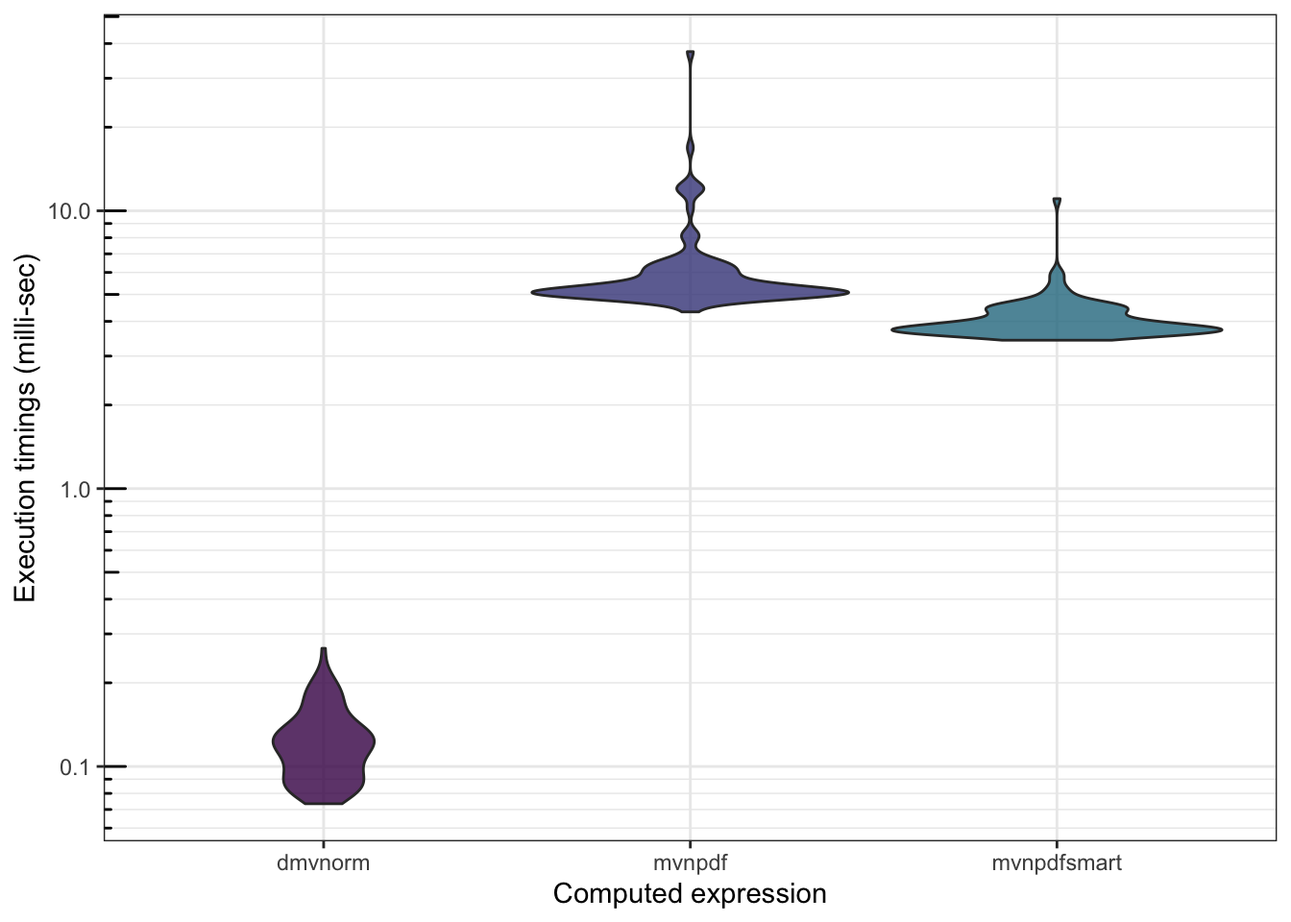
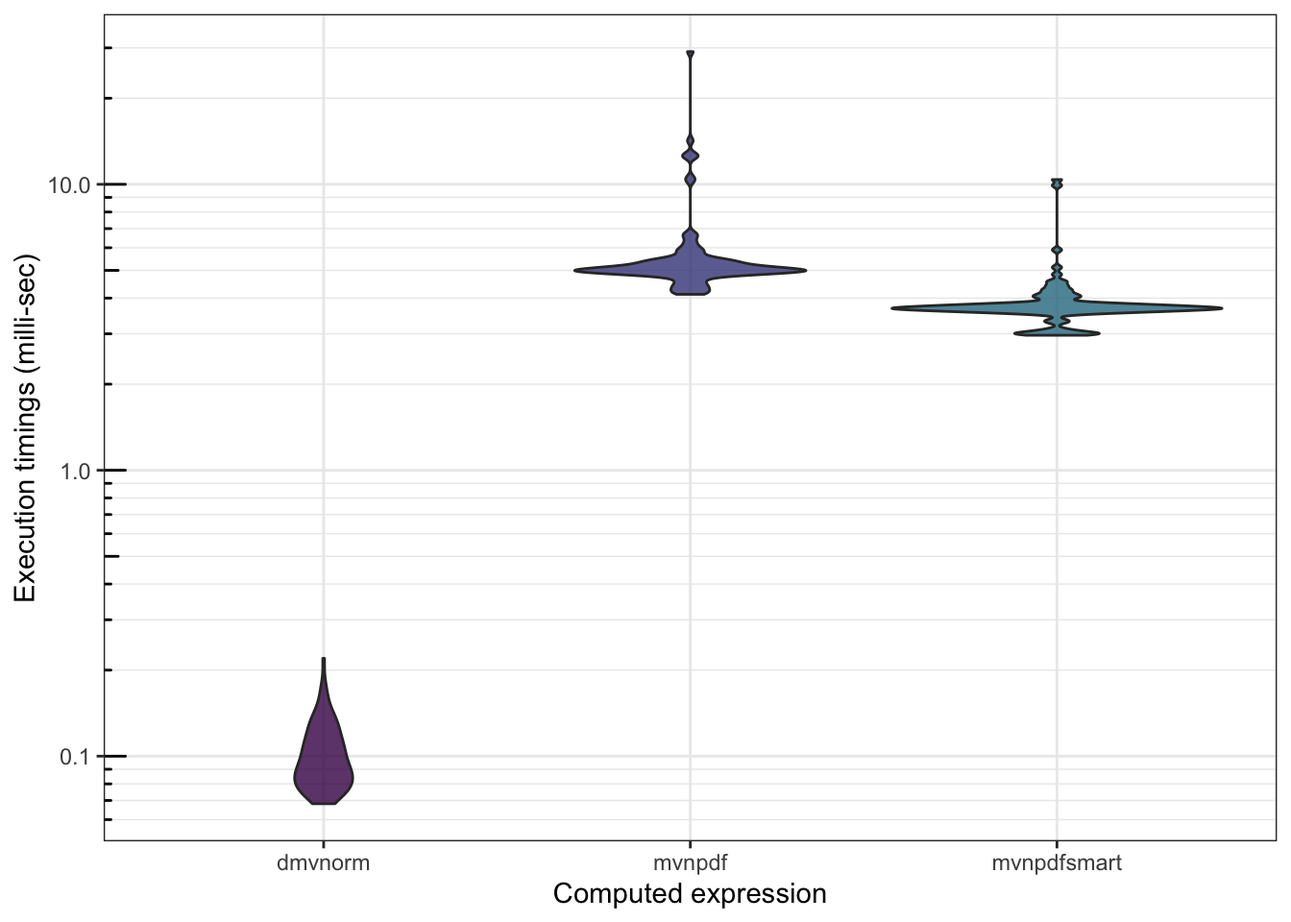
typos

diff --git a/_book/profiling-code.html b/_book/profiling-code.html
@@ -91,13 +91,13 @@
 <span class="va">mb</span></code></pre></div>
 <pre><code>## Unit: milliseconds
 ##                                                            expr      min
-##       mvnpdf(x = matrix(1.96, nrow = 2, ncol = n), Log = FALSE) 4.852221
-##  mvnpdfsmart(x = matrix(1.96, nrow = 2, ncol = n), Log = FALSE) 3.558716
+##       mvnpdf(x = matrix(1.96, nrow = 2, ncol = n), Log = FALSE) 4.336263
+##  mvnpdfsmart(x = matrix(1.96, nrow = 2, ncol = n), Log = FALSE) 3.078886
 ##        lq     mean   median       uq      max neval
-##  5.201794 6.497540 5.697207 6.770580 16.33151   100
-##  3.745223 4.121255 3.886017 4.205934 10.25863   100</code></pre>
+##  5.000927 5.982970 5.234612 6.068598 16.52776   100
+##  3.676973 3.993733 3.809541 3.929553 11.45516   100</code></pre>
 <div class="inline-figure"><img src="AdvancedRcourse_dev_perf_files/figure-html/unnamed-chunk-20-1.png" width="672"></div>
-<p>We can also check whether <code>mvnpdfsmart</code> becomes competitive with <code>dmvnorm()</code>:</p>
+<p>We can also check whether <code>mvnpdfsmart</code> becomes competitive with <code><a href="https://rdrr.io/pkg/mvtnorm/man/Mvnorm.html">dmvnorm()</a></code>:</p>
 <div class="sourceCode" id="cb21"><pre class="downlit sourceCode r">
 <code class="sourceCode R"><span class="va">n</span> <span class="op">&lt;-</span> <span class="fl">1000</span>
 <span class="va">mb</span> <span class="op">&lt;-</span> <span class="fu"><a href="https://rdrr.io/pkg/microbenchmark/man/microbenchmark.html">microbenchmark</a></span><span class="op">(</span><span class="fu">mvtnorm</span><span class="fu">::</span><span class="fu"><a href="https://rdrr.io/pkg/mvtnorm/man/Mvnorm.html">dmvnorm</a></span><span class="op">(</span><span class="fu"><a href="https://rdrr.io/r/base/matrix.html">matrix</a></span><span class="op">(</span><span class="fl">1.96</span>, nrow <span class="op">=</span> <span class="va">n</span>, ncol <span class="op">=</span> <span class="fl">2</span><span class="op">)</span><span class="op">)</span>,
@@ -107,13 +107,13 @@
 <span class="va">mb</span></code></pre></div>
 <pre><code>## Unit: microseconds
 ##                                                            expr      min
-##              mvtnorm::dmvnorm(matrix(1.96, nrow = n, ncol = 2))   73.418
-##       mvnpdf(x = matrix(1.96, nrow = 2, ncol = n), Log = FALSE) 4326.748
-##  mvnpdfsmart(x = matrix(1.96, nrow = 2, ncol = n), Log = FALSE) 3421.482
-##        lq      mean   median       uq       max neval
-##    91.687  122.6135  119.635  139.938   266.169   100
-##  5029.181 6284.8322 5250.682 6089.752 37401.962   100
-##  3681.171 4113.1115 3835.534 4415.663 11055.434   100</code></pre>
+##              mvtnorm::dmvnorm(matrix(1.96, nrow = n, ncol = 2))   68.180
+##       mvnpdf(x = matrix(1.96, nrow = 2, ncol = n), Log = FALSE) 4123.153
+##  mvnpdfsmart(x = matrix(1.96, nrow = 2, ncol = n), Log = FALSE) 2965.095
+##         lq      mean    median        uq       max neval
+##    81.7875  101.6574   93.5195  116.5315   219.855   100
+##  4911.3235 5754.7674 5043.9450 5392.3550 29106.463   100
+##  3598.9005 3855.2198 3695.3890 3813.0660 10390.089   100</code></pre>
 <div class="inline-figure"><img src="AdvancedRcourse_dev_perf_files/figure-html/unnamed-chunk-22-1.png" width="672"></div>
 <p>There is still work to be done…</p>
 </div>
@@ -138,19 +138,20 @@
 <span class="va">mb</span></code></pre></div>
 <pre><code>## Unit: microseconds
 ##                                                            expr      min
-##              mvtnorm::dmvnorm(matrix(1.96, nrow = n, ncol = 2))   70.349
-##       mvnpdf(x = matrix(1.96, nrow = 2, ncol = n), Log = FALSE) 4792.622
-##  mvnpdfsmart(x = matrix(1.96, nrow = 2, ncol = n), Log = FALSE) 3289.135
-##  mvnpdfoptim(x = matrix(1.96, nrow = 2, ncol = n), Log = FALSE) 2685.038
-##        lq      mean   median        uq       max neval
-##    89.696  118.6309  109.472  133.5555   254.979   100
-##  4985.229 5460.4547 5079.698 5417.0380 12831.525   100
-##  3642.360 4251.7034 3735.575 4064.6950 10846.229   100
-##  2827.854 3230.0759 2889.149 3100.4740 13078.359   100</code></pre>
+##              mvtnorm::dmvnorm(matrix(1.96, nrow = n, ncol = 2))   72.532
+##       mvnpdf(x = matrix(1.96, nrow = 2, ncol = n), Log = FALSE) 4061.878
+##  mvnpdfsmart(x = matrix(1.96, nrow = 2, ncol = n), Log = FALSE) 3043.096
+##  mvnpdfoptim(x = matrix(1.96, nrow = 2, ncol = n), Log = FALSE) 2278.607
+##         lq      mean    median       uq       max neval
+##    82.3265  101.8257   98.2125  114.879   230.305   100
+##  4811.8950 5371.1318 4955.8120 5120.218 14294.233   100
+##  3615.7080 3930.5255 3679.0670 3781.788  9506.746   100
+##  2737.0250 2930.6778 2835.5665 2971.662 10070.794   100</code></pre>
 <div class="inline-figure"><img src="AdvancedRcourse_dev_perf_files/figure-html/unnamed-chunk-25-1.png" width="672"></div>
-<p>Finally, we can profile tthe <code>dmvnorm()</code> function:</p>
+<p>Finally, we can profile tthe <code><a href="https://rdrr.io/pkg/mvtnorm/man/Mvnorm.html">dmvnorm()</a></code> function:</p>
 <div class="sourceCode" id="cb26"><pre class="downlit sourceCode r">
 <code class="sourceCode R"><span class="va">n</span> <span class="op">&lt;-</span> <span class="fl">10e5</span>
+<span class="kw"><a href="https://rdrr.io/r/base/library.html">library</a></span><span class="op">(</span><span class="va"><a href="http://mvtnorm.R-forge.R-project.org">mvtnorm</a></span><span class="op">)</span>
 <span class="fu">profvis</span><span class="fu">::</span><span class="fu"><a href="https://rdrr.io/pkg/profvis/man/profvis.html">profvis</a></span><span class="op">(</span><span class="fu">mvtnorm</span><span class="fu">::</span><span class="fu"><a href="https://rdrr.io/pkg/mvtnorm/man/Mvnorm.html">dmvnorm</a></span><span class="op">(</span><span class="fu"><a href="https://rdrr.io/r/base/matrix.html">matrix</a></span><span class="op">(</span><span class="fl">1.96</span>, nrow <span class="op">=</span> <span class="va">n</span>, ncol <span class="op">=</span> <span class="fl">2</span><span class="op">)</span><span class="op">)</span><span class="op">)</span></code></pre></div>
 
 </div>
@@ -180,7 +181,7 @@
 <footer class="bg-primary text-light mt-5"><div class="container"><div class="row">
 
   <div class="col-12 col-md-6 mt-3">
-    <p>"<strong>Advanced <svg aria-hidden="true" role="img" viewbox="0 0 581 512" style="height:1em;width:1.13em;vertical-align:-0.125em;margin-left:auto;margin-right:auto;font-size:inherit;fill:currentColor;overflow:visible;position:relative;"><path d="M581 226.6C581 119.1 450.9 32 290.5 32S0 119.1 0 226.6C0 322.4 103.3 402 239.4 418.1V480h99.1v-61.5c24.3-2.7 47.6-7.4 69.4-13.9L448 480h112l-67.4-113.7c54.5-35.4 88.4-84.9 88.4-139.7zm-466.8 14.5c0-73.5 98.9-133 220.8-133s211.9 40.7 211.9 133c0 50.1-26.5 85-70.3 106.4-2.4-1.6-4.7-2.9-6.4-3.7-10.2-5.2-27.8-10.5-27.8-10.5s86.6-6.4 86.6-92.7-90.6-87.9-90.6-87.9h-199V361c-74.1-21.5-125.2-67.1-125.2-119.9zm225.1 38.3v-55.6c57.8 0 87.8-6.8 87.8 27.3 0 36.5-38.2 28.3-87.8 28.3zm-.9 72.5H365c10.8 0 18.9 11.7 24 19.2-16.1 1.9-33 2.8-50.6 2.9v-22.1z"></path></svg> course</strong>: <em>Tools for software development and performance</em>" was written by <a href="https://robin.genuer.fr/">Robin Genuer</a> &amp; <a href="https://borishejblum.science/">Boris Hejblum</a>. It was last built on 2022-06-08.</p>
+    <p>"<strong>Advanced <svg aria-hidden="true" role="img" viewbox="0 0 581 512" style="height:1em;width:1.13em;vertical-align:-0.125em;margin-left:auto;margin-right:auto;font-size:inherit;fill:currentColor;overflow:visible;position:relative;"><path d="M581 226.6C581 119.1 450.9 32 290.5 32S0 119.1 0 226.6C0 322.4 103.3 402 239.4 418.1V480h99.1v-61.5c24.3-2.7 47.6-7.4 69.4-13.9L448 480h112l-67.4-113.7c54.5-35.4 88.4-84.9 88.4-139.7zm-466.8 14.5c0-73.5 98.9-133 220.8-133s211.9 40.7 211.9 133c0 50.1-26.5 85-70.3 106.4-2.4-1.6-4.7-2.9-6.4-3.7-10.2-5.2-27.8-10.5-27.8-10.5s86.6-6.4 86.6-92.7-90.6-87.9-90.6-87.9h-199V361c-74.1-21.5-125.2-67.1-125.2-119.9zm225.1 38.3v-55.6c57.8 0 87.8-6.8 87.8 27.3 0 36.5-38.2 28.3-87.8 28.3zm-.9 72.5H365c10.8 0 18.9 11.7 24 19.2-16.1 1.9-33 2.8-50.6 2.9v-22.1z"></path></svg> course</strong>: <em>Tools for software development and performance</em>" was written by <a href="https://robin.genuer.fr/">Robin Genuer</a> &amp; <a href="https://borishejblum.science/">Boris Hejblum</a>. It was last built on 2022-06-09.</p>
   </div>
 
   <div class="col-12 col-md-6 mt-3">

diff --git a/_book/measuring-and-comparing-execution-times.html b/_book/measuring-and-comparing-execution-times.html
@@ -74,14 +74,14 @@
 <code class="sourceCode R"><span class="va">obs</span> <span class="op">&lt;-</span> <span class="fu"><a href="https://rdrr.io/r/base/matrix.html">matrix</a></span><span class="op">(</span><span class="fu"><a href="https://rdrr.io/r/base/rep.html">rep</a></span><span class="op">(</span><span class="fl">1.96</span>, <span class="fl">2</span><span class="op">)</span>, nrow<span class="op">=</span><span class="fl">2</span>, ncol<span class="op">=</span><span class="fl">1</span><span class="op">)</span>
 <span class="fu"><a href="https://rdrr.io/r/base/system.time.html">system.time</a></span><span class="op">(</span><span class="fu">mvnpdf</span><span class="op">(</span>x<span class="op">=</span><span class="va">obs</span>, Log<span class="op">=</span><span class="cn">FALSE</span><span class="op">)</span><span class="op">)</span></code></pre></div>
 <pre><code>## utilisateur     système      écoulé 
-##       0.002       0.001       0.003</code></pre>
+##       0.001       0.001       0.003</code></pre>
 <p>The problem that appears in this example is that the execution is so fast that <code><a href="https://rdrr.io/r/base/system.time.html">system.time()</a></code> displays <code>0</code> (or a very close value) that will be impossible to marginally compare to a hopefully faster implementation. Also, we see that there is some variability when we run the command several times.</p>
 <p>Thus if we want to compare our code with the <code><a href="https://rdrr.io/pkg/mvtnorm/man/Mvnorm.html">mvtnorm::dmvnorm()</a></code> function, we can’t use <code><a href="https://rdrr.io/r/base/system.time.html">system.time()</a></code>:</p>
 <div class="sourceCode" id="cb11"><pre class="downlit sourceCode r">
 <code class="sourceCode R"><span class="va">obs</span> <span class="op">&lt;-</span> <span class="fu"><a href="https://rdrr.io/r/base/rep.html">rep</a></span><span class="op">(</span><span class="fl">1.96</span>, <span class="fl">2</span><span class="op">)</span>
 <span class="fu"><a href="https://rdrr.io/r/base/system.time.html">system.time</a></span><span class="op">(</span><span class="fu">mvtnorm</span><span class="fu">::</span><span class="fu"><a href="https://rdrr.io/pkg/mvtnorm/man/Mvnorm.html">dmvnorm</a></span><span class="op">(</span><span class="va">obs</span><span class="op">)</span><span class="op">)</span></code></pre></div>
 <pre><code>## utilisateur     système      écoulé 
-##       0.005       0.003       0.011</code></pre>
+##       0.004       0.003       0.011</code></pre>
 <p>We could say that we have to increase the complexity of our calculation, but there is a better way: use the <code>microbenchmark</code> package !</p>
 </div>
 <div id="compare-execution-timings-with-microbenchmark." class="section level2" number="3.2">
@@ -97,14 +97,14 @@
                      times <span class="op">=</span> <span class="fl">1000</span><span class="op">)</span>
 <span class="va">mb</span></code></pre></div>
 <pre><code>## Unit: microseconds
-##                                           expr    min      lq     mean  median
-##                 mvtnorm::dmvnorm(rep(1.96, 2)) 37.572 50.2770 61.73371 55.3395
-##  mvnpdf(x = matrix(rep(1.96, 2)), Log = FALSE) 35.493 46.2905 54.95766 51.3455
+##                                           expr    min     lq     mean median
+##                 mvtnorm::dmvnorm(rep(1.96, 2)) 38.066 43.595 50.37445 49.119
+##  mvnpdf(x = matrix(rep(1.96, 2)), Log = FALSE) 35.025 40.444 49.04525 45.304
 ##       uq      max neval
-##  66.1915 2590.361  1000
-##  59.1720  197.410  1000</code></pre>
+##  53.6075  135.831  1000
+##  49.4970 2632.936  1000</code></pre>
 <div class="inline-figure"><img src="AdvancedRcourse_dev_perf_files/figure-html/unnamed-chunk-13-1.png" width="672"></div>
-<p>Botth <code>mvnpdf()</code> and <code>dmnvorm()</code> functions being able to take a matrix as input, we can also compare their timings in this setting:</p>
+<p>Both <code>mvnpdf()</code> and <code>dmnvorm()</code> functions being able to take a matrix as input, we can also compare their timings in this setting:</p>
 <div class="sourceCode" id="cb15"><pre class="downlit sourceCode r">
 <code class="sourceCode R"><span class="va">n</span> <span class="op">&lt;-</span> <span class="fl">100</span>
 <span class="va">mb</span> <span class="op">&lt;-</span> <span class="fu"><a href="https://rdrr.io/pkg/microbenchmark/man/microbenchmark.html">microbenchmark</a></span><span class="op">(</span><span class="fu">mvtnorm</span><span class="fu">::</span><span class="fu"><a href="https://rdrr.io/pkg/mvtnorm/man/Mvnorm.html">dmvnorm</a></span><span class="op">(</span><span class="fu"><a href="https://rdrr.io/r/base/matrix.html">matrix</a></span><span class="op">(</span><span class="fl">1.96</span>, nrow <span class="op">=</span> <span class="va">n</span>, ncol <span class="op">=</span> <span class="fl">2</span><span class="op">)</span><span class="op">)</span>,
@@ -113,12 +113,12 @@
                      times<span class="op">=</span><span class="fl">100</span><span class="op">)</span>
 <span class="va">mb</span></code></pre></div>
 <pre><code>## Unit: microseconds
-##                                                       expr     min      lq
-##         mvtnorm::dmvnorm(matrix(1.96, nrow = n, ncol = 2))  51.612  62.200
-##  mvnpdf(x = matrix(1.96, nrow = 2, ncol = n), Log = FALSE) 521.395 587.507
-##       mean  median       uq     max neval
-##   74.61388  70.893  84.9525 116.128   100
-##  613.05475 607.751 636.8105 725.737   100</code></pre>
+##                                                       expr     min       lq
+##         mvtnorm::dmvnorm(matrix(1.96, nrow = n, ncol = 2))  49.591  59.9405
+##  mvnpdf(x = matrix(1.96, nrow = 2, ncol = n), Log = FALSE) 485.371 546.5430
+##       mean  median      uq     max neval
+##   68.67111  64.826  72.471 174.057   100
+##  572.04338 572.378 591.084 670.790   100</code></pre>
 <div class="inline-figure"><img src="AdvancedRcourse_dev_perf_files/figure-html/unnamed-chunk-15-1.png" width="672"></div>
 <p>Something happened… And we will find out what exactly is causing this issue in what comes next.</p>
 
@@ -149,7 +149,7 @@
 <footer class="bg-primary text-light mt-5"><div class="container"><div class="row">
 
   <div class="col-12 col-md-6 mt-3">
-    <p>"<strong>Advanced <svg aria-hidden="true" role="img" viewbox="0 0 581 512" style="height:1em;width:1.13em;vertical-align:-0.125em;margin-left:auto;margin-right:auto;font-size:inherit;fill:currentColor;overflow:visible;position:relative;"><path d="M581 226.6C581 119.1 450.9 32 290.5 32S0 119.1 0 226.6C0 322.4 103.3 402 239.4 418.1V480h99.1v-61.5c24.3-2.7 47.6-7.4 69.4-13.9L448 480h112l-67.4-113.7c54.5-35.4 88.4-84.9 88.4-139.7zm-466.8 14.5c0-73.5 98.9-133 220.8-133s211.9 40.7 211.9 133c0 50.1-26.5 85-70.3 106.4-2.4-1.6-4.7-2.9-6.4-3.7-10.2-5.2-27.8-10.5-27.8-10.5s86.6-6.4 86.6-92.7-90.6-87.9-90.6-87.9h-199V361c-74.1-21.5-125.2-67.1-125.2-119.9zm225.1 38.3v-55.6c57.8 0 87.8-6.8 87.8 27.3 0 36.5-38.2 28.3-87.8 28.3zm-.9 72.5H365c10.8 0 18.9 11.7 24 19.2-16.1 1.9-33 2.8-50.6 2.9v-22.1z"></path></svg> course</strong>: <em>Tools for software development and performance</em>" was written by <a href="https://robin.genuer.fr/">Robin Genuer</a> &amp; <a href="https://borishejblum.science/">Boris Hejblum</a>. It was last built on 2022-06-08.</p>
+    <p>"<strong>Advanced <svg aria-hidden="true" role="img" viewbox="0 0 581 512" style="height:1em;width:1.13em;vertical-align:-0.125em;margin-left:auto;margin-right:auto;font-size:inherit;fill:currentColor;overflow:visible;position:relative;"><path d="M581 226.6C581 119.1 450.9 32 290.5 32S0 119.1 0 226.6C0 322.4 103.3 402 239.4 418.1V480h99.1v-61.5c24.3-2.7 47.6-7.4 69.4-13.9L448 480h112l-67.4-113.7c54.5-35.4 88.4-84.9 88.4-139.7zm-466.8 14.5c0-73.5 98.9-133 220.8-133s211.9 40.7 211.9 133c0 50.1-26.5 85-70.3 106.4-2.4-1.6-4.7-2.9-6.4-3.7-10.2-5.2-27.8-10.5-27.8-10.5s86.6-6.4 86.6-92.7-90.6-87.9-90.6-87.9h-199V361c-74.1-21.5-125.2-67.1-125.2-119.9zm225.1 38.3v-55.6c57.8 0 87.8-6.8 87.8 27.3 0 36.5-38.2 28.3-87.8 28.3zm-.9 72.5H365c10.8 0 18.9 11.7 24 19.2-16.1 1.9-33 2.8-50.6 2.9v-22.1z"></path></svg> course</strong>: <em>Tools for software development and performance</em>" was written by <a href="https://robin.genuer.fr/">Robin Genuer</a> &amp; <a href="https://borishejblum.science/">Boris Hejblum</a>. It was last built on 2022-06-09.</p>
   </div>
 
   <div class="col-12 col-md-6 mt-3">

diff --git a/_book/rcpp-or-how-to-easily-embed-c-code-into-a-package.html b/_book/rcpp-or-how-to-easily-embed-c-code-into-a-package.html
@@ -77,7 +77,7 @@
 </ol>
 </blockquote>
 <div class="sourceCode" id="cb27"><pre class="downlit sourceCode r">
-<code class="sourceCode R"><span class="fu">devtools</span><span class="fu">::</span><span class="fu">use_rcpp</span><span class="op">(</span><span class="op">)</span></code></pre></div>
+<code class="sourceCode R"><span class="fu">usethis</span><span class="fu">::</span><span class="fu"><a href="https://usethis.r-lib.org/reference/use_rcpp.html">use_rcpp</a></span><span class="op">(</span><span class="op">)</span></code></pre></div>
 <blockquote>
 <ol start="2" style="list-style-type: decimal">
 <li><p>See the changes made</p></li>
@@ -118,17 +118,17 @@ package:</p></li>
 <span class="va">mb</span></code></pre></div>
 <pre><code>## Unit: microseconds
 ##                                                            expr      min
-##              mvtnorm::dmvnorm(matrix(1.96, nrow = n, ncol = 2))   70.780
-##       mvnpdf(x = matrix(1.96, nrow = 2, ncol = n), Log = FALSE) 4582.082
-##  mvnpdfsmart(x = matrix(1.96, nrow = 2, ncol = n), Log = FALSE) 3455.209
-##  mvnpdfoptim(x = matrix(1.96, nrow = 2, ncol = n), Log = FALSE) 2821.328
-##  mvnpdf_invC(x = matrix(1.96, nrow = 2, ncol = n), Log = FALSE) 3500.765
-##        lq      mean    median        uq       max neval
-##    94.455  112.9585  109.0895  128.3335   203.233   100
-##  4951.737 5648.6614 5150.3880 5515.0040 16555.548   100
-##  3739.691 4102.9370 3828.5530 4037.9570 11782.020   100
-##  2971.279 3455.9374 3080.3770 3273.3855 11620.044   100
-##  3728.302 4078.5288 3834.9825 4056.8505  9674.702   100</code></pre>
+##              mvtnorm::dmvnorm(matrix(1.96, nrow = n, ncol = 2))   73.604
+##       mvnpdf(x = matrix(1.96, nrow = 2, ncol = n), Log = FALSE) 4164.615
+##  mvnpdfsmart(x = matrix(1.96, nrow = 2, ncol = n), Log = FALSE) 3383.477
+##  mvnpdfoptim(x = matrix(1.96, nrow = 2, ncol = n), Log = FALSE) 2352.352
+##  mvnpdf_invC(x = matrix(1.96, nrow = 2, ncol = n), Log = FALSE) 3266.685
+##        lq     mean   median        uq       max neval
+##    91.554  107.707  102.777  117.5475   242.666   100
+##  4958.746 5410.209 5097.633 5248.2115 11731.666   100
+##  3722.980 4043.415 3825.235 3931.5435 10227.935   100
+##  2930.314 3307.454 2999.305 3211.8735 11145.716   100
+##  3672.886 4159.474 3795.791 3929.5375 11849.507   100</code></pre>
 <div class="inline-figure"><img src="AdvancedRcourse_dev_perf_files/figure-html/unnamed-chunk-31-1.png" width="672"></div>
 <div class="sourceCode" id="cb31"><pre class="downlit sourceCode r">
 <code class="sourceCode R"><span class="fu">profvis</span><span class="fu">::</span><span class="fu"><a href="https://rdrr.io/pkg/profvis/man/profvis.html">profvis</a></span><span class="op">(</span><span class="fu">mvnpdfoptim</span><span class="op">(</span>x<span class="op">=</span><span class="fu"><a href="https://rdrr.io/r/base/matrix.html">matrix</a></span><span class="op">(</span><span class="fl">1.96</span>, 
@@ -168,12 +168,12 @@ package:</p></li>
 ##                                        mvnpdf_invC(x = matrix(1.96, nrow = 2, ncol = n), Log = FALSE)
 ##  mvnpdfC(x = matrix(1.96, nrow = 2, ncol = n), mean = rep(0, 2),      varcovM = diag(2), Log = FALSE)
 ##       min        lq       mean    median        uq       max neval
-##    73.002   88.6810  116.43121  111.6035  136.6405   206.761   100
-##  4502.013 5025.2120 5761.87892 5176.3445 5772.5290 13724.987   100
-##  3432.103 3714.8170 4248.82783 3823.1720 4256.7675 15591.582   100
-##  2679.836 2919.9560 4142.55809 3054.3270 3342.4805 76412.611   100
-##  3250.644 3716.4205 4262.68288 3863.1480 4500.2675  8898.137   100
-##    55.839   63.5895   77.29298   71.2860   81.7235   174.767   100</code></pre>
+##    64.346   81.6735  160.45066  104.9505  124.9045  5423.639   100
+##  4056.855 4817.1940 6120.80179 5058.0700 5794.9295 85759.698   100
+##  2965.452 3640.9475 3967.15081 3788.9710 3938.2135 10840.178   100
+##  2314.976 2792.5155 3160.82059 2973.6325 3206.9685  9411.762   100
+##  3023.267 3645.9305 4041.87929 3782.1010 3975.1130 10308.082   100
+##    47.571   58.1370   79.35532   68.7515   75.4920   981.920   100</code></pre>
 <div class="inline-figure"><img src="AdvancedRcourse_dev_perf_files/figure-html/unnamed-chunk-34-1.png" width="672"></div>
 <p>Note that <code>Rcpp</code> functions can be used outside of a package architecture thanks to the <code><a href="https://rdrr.io/pkg/Rcpp/man/sourceCpp.html">Rcpp::sourceCpp()</a></code> function. But, as we have seen that it is always desirable to manage all of one’s code inside a package, it is unlikely that you will need this !</p>
 </div>
@@ -214,7 +214,7 @@ package:</p></li>
 <footer class="bg-primary text-light mt-5"><div class="container"><div class="row">
 
   <div class="col-12 col-md-6 mt-3">
-    <p>"<strong>Advanced <svg aria-hidden="true" role="img" viewbox="0 0 581 512" style="height:1em;width:1.13em;vertical-align:-0.125em;margin-left:auto;margin-right:auto;font-size:inherit;fill:currentColor;overflow:visible;position:relative;"><path d="M581 226.6C581 119.1 450.9 32 290.5 32S0 119.1 0 226.6C0 322.4 103.3 402 239.4 418.1V480h99.1v-61.5c24.3-2.7 47.6-7.4 69.4-13.9L448 480h112l-67.4-113.7c54.5-35.4 88.4-84.9 88.4-139.7zm-466.8 14.5c0-73.5 98.9-133 220.8-133s211.9 40.7 211.9 133c0 50.1-26.5 85-70.3 106.4-2.4-1.6-4.7-2.9-6.4-3.7-10.2-5.2-27.8-10.5-27.8-10.5s86.6-6.4 86.6-92.7-90.6-87.9-90.6-87.9h-199V361c-74.1-21.5-125.2-67.1-125.2-119.9zm225.1 38.3v-55.6c57.8 0 87.8-6.8 87.8 27.3 0 36.5-38.2 28.3-87.8 28.3zm-.9 72.5H365c10.8 0 18.9 11.7 24 19.2-16.1 1.9-33 2.8-50.6 2.9v-22.1z"></path></svg> course</strong>: <em>Tools for software development and performance</em>" was written by <a href="https://robin.genuer.fr/">Robin Genuer</a> &amp; <a href="https://borishejblum.science/">Boris Hejblum</a>. It was last built on 2022-06-08.</p>
+    <p>"<strong>Advanced <svg aria-hidden="true" role="img" viewbox="0 0 581 512" style="height:1em;width:1.13em;vertical-align:-0.125em;margin-left:auto;margin-right:auto;font-size:inherit;fill:currentColor;overflow:visible;position:relative;"><path d="M581 226.6C581 119.1 450.9 32 290.5 32S0 119.1 0 226.6C0 322.4 103.3 402 239.4 418.1V480h99.1v-61.5c24.3-2.7 47.6-7.4 69.4-13.9L448 480h112l-67.4-113.7c54.5-35.4 88.4-84.9 88.4-139.7zm-466.8 14.5c0-73.5 98.9-133 220.8-133s211.9 40.7 211.9 133c0 50.1-26.5 85-70.3 106.4-2.4-1.6-4.7-2.9-6.4-3.7-10.2-5.2-27.8-10.5-27.8-10.5s86.6-6.4 86.6-92.7-90.6-87.9-90.6-87.9h-199V361c-74.1-21.5-125.2-67.1-125.2-119.9zm225.1 38.3v-55.6c57.8 0 87.8-6.8 87.8 27.3 0 36.5-38.2 28.3-87.8 28.3zm-.9 72.5H365c10.8 0 18.9 11.7 24 19.2-16.1 1.9-33 2.8-50.6 2.9v-22.1z"></path></svg> course</strong>: <em>Tools for software development and performance</em>" was written by <a href="https://robin.genuer.fr/">Robin Genuer</a> &amp; <a href="https://borishejblum.science/">Boris Hejblum</a>. It was last built on 2022-06-09.</p>
   </div>
 
   <div class="col-12 col-md-6 mt-3">

diff --git a/_book/code-parallelization.html b/_book/code-parallelization.html
@@ -141,7 +141,7 @@
 <span class="op">}</span>
 <span class="fu"><a href="https://rdrr.io/r/base/system.time.html">system.time</a></span><span class="op">(</span><span class="fu">colmedian_apply</span><span class="op">(</span><span class="va">x</span><span class="op">)</span><span class="op">)</span></code></pre></div>
 <pre><code>## utilisateur     système      écoulé 
-##       3.332       0.030       3.410</code></pre>
+##       3.339       0.035       3.435</code></pre>
 <p>In reality, a (good) <code>for</code> loop is no slower – provided it is nicely programmed:</p>
 <div class="sourceCode" id="cb39"><pre class="downlit sourceCode r">
 <code class="sourceCode R"><span class="va">colmedian_for</span> <span class="op">&lt;-</span> <span class="kw">function</span><span class="op">(</span><span class="va">x</span><span class="op">)</span><span class="op">{</span>
@@ -153,7 +153,7 @@
 <span class="op">}</span>
 <span class="fu"><a href="https://rdrr.io/r/base/system.time.html">system.time</a></span><span class="op">(</span><span class="fu">colmedian_for</span><span class="op">(</span><span class="va">x</span><span class="op">)</span><span class="op">)</span></code></pre></div>
 <pre><code>## utilisateur     système      écoulé 
-##       2.928       0.016       2.962</code></pre>
+##       3.127       0.008       3.350</code></pre>
 <blockquote>
 <p>👉 <strong><em>Your turn !</em></strong>
 Try to further improve this computation time through parallelizing your code for each of the 100,000 variables. Is there a gain in computation time?</p>
@@ -326,7 +326,7 @@ iterators::nextElem(myiter)
 <footer class="bg-primary text-light mt-5"><div class="container"><div class="row">
 
   <div class="col-12 col-md-6 mt-3">
-    <p>"<strong>Advanced <svg aria-hidden="true" role="img" viewbox="0 0 581 512" style="height:1em;width:1.13em;vertical-align:-0.125em;margin-left:auto;margin-right:auto;font-size:inherit;fill:currentColor;overflow:visible;position:relative;"><path d="M581 226.6C581 119.1 450.9 32 290.5 32S0 119.1 0 226.6C0 322.4 103.3 402 239.4 418.1V480h99.1v-61.5c24.3-2.7 47.6-7.4 69.4-13.9L448 480h112l-67.4-113.7c54.5-35.4 88.4-84.9 88.4-139.7zm-466.8 14.5c0-73.5 98.9-133 220.8-133s211.9 40.7 211.9 133c0 50.1-26.5 85-70.3 106.4-2.4-1.6-4.7-2.9-6.4-3.7-10.2-5.2-27.8-10.5-27.8-10.5s86.6-6.4 86.6-92.7-90.6-87.9-90.6-87.9h-199V361c-74.1-21.5-125.2-67.1-125.2-119.9zm225.1 38.3v-55.6c57.8 0 87.8-6.8 87.8 27.3 0 36.5-38.2 28.3-87.8 28.3zm-.9 72.5H365c10.8 0 18.9 11.7 24 19.2-16.1 1.9-33 2.8-50.6 2.9v-22.1z"></path></svg> course</strong>: <em>Tools for software development and performance</em>" was written by <a href="https://robin.genuer.fr/">Robin Genuer</a> &amp; <a href="https://borishejblum.science/">Boris Hejblum</a>. It was last built on 2022-06-08.</p>
+    <p>"<strong>Advanced <svg aria-hidden="true" role="img" viewbox="0 0 581 512" style="height:1em;width:1.13em;vertical-align:-0.125em;margin-left:auto;margin-right:auto;font-size:inherit;fill:currentColor;overflow:visible;position:relative;"><path d="M581 226.6C581 119.1 450.9 32 290.5 32S0 119.1 0 226.6C0 322.4 103.3 402 239.4 418.1V480h99.1v-61.5c24.3-2.7 47.6-7.4 69.4-13.9L448 480h112l-67.4-113.7c54.5-35.4 88.4-84.9 88.4-139.7zm-466.8 14.5c0-73.5 98.9-133 220.8-133s211.9 40.7 211.9 133c0 50.1-26.5 85-70.3 106.4-2.4-1.6-4.7-2.9-6.4-3.7-10.2-5.2-27.8-10.5-27.8-10.5s86.6-6.4 86.6-92.7-90.6-87.9-90.6-87.9h-199V361c-74.1-21.5-125.2-67.1-125.2-119.9zm225.1 38.3v-55.6c57.8 0 87.8-6.8 87.8 27.3 0 36.5-38.2 28.3-87.8 28.3zm-.9 72.5H365c10.8 0 18.9 11.7 24 19.2-16.1 1.9-33 2.8-50.6 2.9v-22.1z"></path></svg> course</strong>: <em>Tools for software development and performance</em>" was written by <a href="https://robin.genuer.fr/">Robin Genuer</a> &amp; <a href="https://borishejblum.science/">Boris Hejblum</a>. It was last built on 2022-06-09.</p>
   </div>
 
   <div class="col-12 col-md-6 mt-3">

diff --git a/_book/building-a-package.html b/_book/building-a-package.html
@@ -309,7 +309,7 @@ For more details, see Hadley Wickham’s recommanded pipeline in his book <a hre
 <footer class="bg-primary text-light mt-5"><div class="container"><div class="row">
 
   <div class="col-12 col-md-6 mt-3">
-    <p>"<strong>Advanced <svg aria-hidden="true" role="img" viewbox="0 0 581 512" style="height:1em;width:1.13em;vertical-align:-0.125em;margin-left:auto;margin-right:auto;font-size:inherit;fill:currentColor;overflow:visible;position:relative;"><path d="M581 226.6C581 119.1 450.9 32 290.5 32S0 119.1 0 226.6C0 322.4 103.3 402 239.4 418.1V480h99.1v-61.5c24.3-2.7 47.6-7.4 69.4-13.9L448 480h112l-67.4-113.7c54.5-35.4 88.4-84.9 88.4-139.7zm-466.8 14.5c0-73.5 98.9-133 220.8-133s211.9 40.7 211.9 133c0 50.1-26.5 85-70.3 106.4-2.4-1.6-4.7-2.9-6.4-3.7-10.2-5.2-27.8-10.5-27.8-10.5s86.6-6.4 86.6-92.7-90.6-87.9-90.6-87.9h-199V361c-74.1-21.5-125.2-67.1-125.2-119.9zm225.1 38.3v-55.6c57.8 0 87.8-6.8 87.8 27.3 0 36.5-38.2 28.3-87.8 28.3zm-.9 72.5H365c10.8 0 18.9 11.7 24 19.2-16.1 1.9-33 2.8-50.6 2.9v-22.1z"></path></svg> course</strong>: <em>Tools for software development and performance</em>" was written by <a href="https://robin.genuer.fr/">Robin Genuer</a> &amp; <a href="https://borishejblum.science/">Boris Hejblum</a>. It was last built on 2022-06-08.</p>
+    <p>"<strong>Advanced <svg aria-hidden="true" role="img" viewbox="0 0 581 512" style="height:1em;width:1.13em;vertical-align:-0.125em;margin-left:auto;margin-right:auto;font-size:inherit;fill:currentColor;overflow:visible;position:relative;"><path d="M581 226.6C581 119.1 450.9 32 290.5 32S0 119.1 0 226.6C0 322.4 103.3 402 239.4 418.1V480h99.1v-61.5c24.3-2.7 47.6-7.4 69.4-13.9L448 480h112l-67.4-113.7c54.5-35.4 88.4-84.9 88.4-139.7zm-466.8 14.5c0-73.5 98.9-133 220.8-133s211.9 40.7 211.9 133c0 50.1-26.5 85-70.3 106.4-2.4-1.6-4.7-2.9-6.4-3.7-10.2-5.2-27.8-10.5-27.8-10.5s86.6-6.4 86.6-92.7-90.6-87.9-90.6-87.9h-199V361c-74.1-21.5-125.2-67.1-125.2-119.9zm225.1 38.3v-55.6c57.8 0 87.8-6.8 87.8 27.3 0 36.5-38.2 28.3-87.8 28.3zm-.9 72.5H365c10.8 0 18.9 11.7 24 19.2-16.1 1.9-33 2.8-50.6 2.9v-22.1z"></path></svg> course</strong>: <em>Tools for software development and performance</em>" was written by <a href="https://robin.genuer.fr/">Robin Genuer</a> &amp; <a href="https://borishejblum.science/">Boris Hejblum</a>. It was last built on 2022-06-09.</p>
   </div>
 
   <div class="col-12 col-md-6 mt-3">

diff --git a/_book/index.html b/_book/index.html
@@ -110,7 +110,7 @@ Mac users it may be necessary to install the macOS tool chain (namely Xcode Comm
 <footer class="bg-primary text-light mt-5"><div class="container"><div class="row">
 
   <div class="col-12 col-md-6 mt-3">
-    <p>"<strong>Advanced <svg aria-hidden="true" role="img" viewbox="0 0 581 512" style="height:1em;width:1.13em;vertical-align:-0.125em;margin-left:auto;margin-right:auto;font-size:inherit;fill:currentColor;overflow:visible;position:relative;"><path d="M581 226.6C581 119.1 450.9 32 290.5 32S0 119.1 0 226.6C0 322.4 103.3 402 239.4 418.1V480h99.1v-61.5c24.3-2.7 47.6-7.4 69.4-13.9L448 480h112l-67.4-113.7c54.5-35.4 88.4-84.9 88.4-139.7zm-466.8 14.5c0-73.5 98.9-133 220.8-133s211.9 40.7 211.9 133c0 50.1-26.5 85-70.3 106.4-2.4-1.6-4.7-2.9-6.4-3.7-10.2-5.2-27.8-10.5-27.8-10.5s86.6-6.4 86.6-92.7-90.6-87.9-90.6-87.9h-199V361c-74.1-21.5-125.2-67.1-125.2-119.9zm225.1 38.3v-55.6c57.8 0 87.8-6.8 87.8 27.3 0 36.5-38.2 28.3-87.8 28.3zm-.9 72.5H365c10.8 0 18.9 11.7 24 19.2-16.1 1.9-33 2.8-50.6 2.9v-22.1z"></path></svg> course</strong>: <em>Tools for software development and performance</em>" was written by <a href="https://robin.genuer.fr/">Robin Genuer</a> &amp; <a href="https://borishejblum.science/">Boris Hejblum</a>. It was last built on 2022-06-08.</p>
+    <p>"<strong>Advanced <svg aria-hidden="true" role="img" viewbox="0 0 581 512" style="height:1em;width:1.13em;vertical-align:-0.125em;margin-left:auto;margin-right:auto;font-size:inherit;fill:currentColor;overflow:visible;position:relative;"><path d="M581 226.6C581 119.1 450.9 32 290.5 32S0 119.1 0 226.6C0 322.4 103.3 402 239.4 418.1V480h99.1v-61.5c24.3-2.7 47.6-7.4 69.4-13.9L448 480h112l-67.4-113.7c54.5-35.4 88.4-84.9 88.4-139.7zm-466.8 14.5c0-73.5 98.9-133 220.8-133s211.9 40.7 211.9 133c0 50.1-26.5 85-70.3 106.4-2.4-1.6-4.7-2.9-6.4-3.7-10.2-5.2-27.8-10.5-27.8-10.5s86.6-6.4 86.6-92.7-90.6-87.9-90.6-87.9h-199V361c-74.1-21.5-125.2-67.1-125.2-119.9zm225.1 38.3v-55.6c57.8 0 87.8-6.8 87.8 27.3 0 36.5-38.2 28.3-87.8 28.3zm-.9 72.5H365c10.8 0 18.9 11.7 24 19.2-16.1 1.9-33 2.8-50.6 2.9v-22.1z"></path></svg> course</strong>: <em>Tools for software development and performance</em>" was written by <a href="https://robin.genuer.fr/">Robin Genuer</a> &amp; <a href="https://borishejblum.science/">Boris Hejblum</a>. It was last built on 2022-06-09.</p>
   </div>
 
   <div class="col-12 col-md-6 mt-3">

diff --git a/_book/404.html b/_book/404.html
@@ -79,7 +79,7 @@ the table of contents to find the page you are looking for.</p>
 <footer class="bg-primary text-light mt-5"><div class="container"><div class="row">
 
   <div class="col-12 col-md-6 mt-3">
-    <p>"<strong>Advanced <svg aria-hidden="true" role="img" viewbox="0 0 581 512" style="height:1em;width:1.13em;vertical-align:-0.125em;margin-left:auto;margin-right:auto;font-size:inherit;fill:currentColor;overflow:visible;position:relative;"><path d="M581 226.6C581 119.1 450.9 32 290.5 32S0 119.1 0 226.6C0 322.4 103.3 402 239.4 418.1V480h99.1v-61.5c24.3-2.7 47.6-7.4 69.4-13.9L448 480h112l-67.4-113.7c54.5-35.4 88.4-84.9 88.4-139.7zm-466.8 14.5c0-73.5 98.9-133 220.8-133s211.9 40.7 211.9 133c0 50.1-26.5 85-70.3 106.4-2.4-1.6-4.7-2.9-6.4-3.7-10.2-5.2-27.8-10.5-27.8-10.5s86.6-6.4 86.6-92.7-90.6-87.9-90.6-87.9h-199V361c-74.1-21.5-125.2-67.1-125.2-119.9zm225.1 38.3v-55.6c57.8 0 87.8-6.8 87.8 27.3 0 36.5-38.2 28.3-87.8 28.3zm-.9 72.5H365c10.8 0 18.9 11.7 24 19.2-16.1 1.9-33 2.8-50.6 2.9v-22.1z"></path></svg> course</strong>: <em>Tools for software development and performance</em>" was written by <a href="https://robin.genuer.fr/">Robin Genuer</a> &amp; <a href="https://borishejblum.science/">Boris Hejblum</a>. It was last built on 2022-06-08.</p>
+    <p>"<strong>Advanced <svg aria-hidden="true" role="img" viewbox="0 0 581 512" style="height:1em;width:1.13em;vertical-align:-0.125em;margin-left:auto;margin-right:auto;font-size:inherit;fill:currentColor;overflow:visible;position:relative;"><path d="M581 226.6C581 119.1 450.9 32 290.5 32S0 119.1 0 226.6C0 322.4 103.3 402 239.4 418.1V480h99.1v-61.5c24.3-2.7 47.6-7.4 69.4-13.9L448 480h112l-67.4-113.7c54.5-35.4 88.4-84.9 88.4-139.7zm-466.8 14.5c0-73.5 98.9-133 220.8-133s211.9 40.7 211.9 133c0 50.1-26.5 85-70.3 106.4-2.4-1.6-4.7-2.9-6.4-3.7-10.2-5.2-27.8-10.5-27.8-10.5s86.6-6.4 86.6-92.7-90.6-87.9-90.6-87.9h-199V361c-74.1-21.5-125.2-67.1-125.2-119.9zm225.1 38.3v-55.6c57.8 0 87.8-6.8 87.8 27.3 0 36.5-38.2 28.3-87.8 28.3zm-.9 72.5H365c10.8 0 18.9 11.7 24 19.2-16.1 1.9-33 2.8-50.6 2.9v-22.1z"></path></svg> course</strong>: <em>Tools for software development and performance</em>" was written by <a href="https://robin.genuer.fr/">Robin Genuer</a> &amp; <a href="https://borishejblum.science/">Boris Hejblum</a>. It was last built on 2022-06-09.</p>
   </div>
 
   <div class="col-12 col-md-6 mt-3">

diff --git a/_book/version-control-with-git-and-github.html b/_book/version-control-with-git-and-github.html
@@ -370,7 +370,7 @@ online code
 <footer class="bg-primary text-light mt-5"><div class="container"><div class="row">
 
   <div class="col-12 col-md-6 mt-3">
-    <p>"<strong>Advanced <svg aria-hidden="true" role="img" viewbox="0 0 581 512" style="height:1em;width:1.13em;vertical-align:-0.125em;margin-left:auto;margin-right:auto;font-size:inherit;fill:currentColor;overflow:visible;position:relative;"><path d="M581 226.6C581 119.1 450.9 32 290.5 32S0 119.1 0 226.6C0 322.4 103.3 402 239.4 418.1V480h99.1v-61.5c24.3-2.7 47.6-7.4 69.4-13.9L448 480h112l-67.4-113.7c54.5-35.4 88.4-84.9 88.4-139.7zm-466.8 14.5c0-73.5 98.9-133 220.8-133s211.9 40.7 211.9 133c0 50.1-26.5 85-70.3 106.4-2.4-1.6-4.7-2.9-6.4-3.7-10.2-5.2-27.8-10.5-27.8-10.5s86.6-6.4 86.6-92.7-90.6-87.9-90.6-87.9h-199V361c-74.1-21.5-125.2-67.1-125.2-119.9zm225.1 38.3v-55.6c57.8 0 87.8-6.8 87.8 27.3 0 36.5-38.2 28.3-87.8 28.3zm-.9 72.5H365c10.8 0 18.9 11.7 24 19.2-16.1 1.9-33 2.8-50.6 2.9v-22.1z"></path></svg> course</strong>: <em>Tools for software development and performance</em>" was written by <a href="https://robin.genuer.fr/">Robin Genuer</a> &amp; <a href="https://borishejblum.science/">Boris Hejblum</a>. It was last built on 2022-06-08.</p>
+    <p>"<strong>Advanced <svg aria-hidden="true" role="img" viewbox="0 0 581 512" style="height:1em;width:1.13em;vertical-align:-0.125em;margin-left:auto;margin-right:auto;font-size:inherit;fill:currentColor;overflow:visible;position:relative;"><path d="M581 226.6C581 119.1 450.9 32 290.5 32S0 119.1 0 226.6C0 322.4 103.3 402 239.4 418.1V480h99.1v-61.5c24.3-2.7 47.6-7.4 69.4-13.9L448 480h112l-67.4-113.7c54.5-35.4 88.4-84.9 88.4-139.7zm-466.8 14.5c0-73.5 98.9-133 220.8-133s211.9 40.7 211.9 133c0 50.1-26.5 85-70.3 106.4-2.4-1.6-4.7-2.9-6.4-3.7-10.2-5.2-27.8-10.5-27.8-10.5s86.6-6.4 86.6-92.7-90.6-87.9-90.6-87.9h-199V361c-74.1-21.5-125.2-67.1-125.2-119.9zm225.1 38.3v-55.6c57.8 0 87.8-6.8 87.8 27.3 0 36.5-38.2 28.3-87.8 28.3zm-.9 72.5H365c10.8 0 18.9 11.7 24 19.2-16.1 1.9-33 2.8-50.6 2.9v-22.1z"></path></svg> course</strong>: <em>Tools for software development and performance</em>" was written by <a href="https://robin.genuer.fr/">Robin Genuer</a> &amp; <a href="https://borishejblum.science/">Boris Hejblum</a>. It was last built on 2022-06-09.</p>
   </div>
 
   <div class="col-12 col-md-6 mt-3">

diff --git a/_book/further-reading.html b/_book/further-reading.html
@@ -96,7 +96,7 @@
 <footer class="bg-primary text-light mt-5"><div class="container"><div class="row">
 
   <div class="col-12 col-md-6 mt-3">
-    <p>"<strong>Advanced <svg aria-hidden="true" role="img" viewbox="0 0 581 512" style="height:1em;width:1.13em;vertical-align:-0.125em;margin-left:auto;margin-right:auto;font-size:inherit;fill:currentColor;overflow:visible;position:relative;"><path d="M581 226.6C581 119.1 450.9 32 290.5 32S0 119.1 0 226.6C0 322.4 103.3 402 239.4 418.1V480h99.1v-61.5c24.3-2.7 47.6-7.4 69.4-13.9L448 480h112l-67.4-113.7c54.5-35.4 88.4-84.9 88.4-139.7zm-466.8 14.5c0-73.5 98.9-133 220.8-133s211.9 40.7 211.9 133c0 50.1-26.5 85-70.3 106.4-2.4-1.6-4.7-2.9-6.4-3.7-10.2-5.2-27.8-10.5-27.8-10.5s86.6-6.4 86.6-92.7-90.6-87.9-90.6-87.9h-199V361c-74.1-21.5-125.2-67.1-125.2-119.9zm225.1 38.3v-55.6c57.8 0 87.8-6.8 87.8 27.3 0 36.5-38.2 28.3-87.8 28.3zm-.9 72.5H365c10.8 0 18.9 11.7 24 19.2-16.1 1.9-33 2.8-50.6 2.9v-22.1z"></path></svg> course</strong>: <em>Tools for software development and performance</em>" was written by <a href="https://robin.genuer.fr/">Robin Genuer</a> &amp; <a href="https://borishejblum.science/">Boris Hejblum</a>. It was last built on 2022-06-08.</p>
+    <p>"<strong>Advanced <svg aria-hidden="true" role="img" viewbox="0 0 581 512" style="height:1em;width:1.13em;vertical-align:-0.125em;margin-left:auto;margin-right:auto;font-size:inherit;fill:currentColor;overflow:visible;position:relative;"><path d="M581 226.6C581 119.1 450.9 32 290.5 32S0 119.1 0 226.6C0 322.4 103.3 402 239.4 418.1V480h99.1v-61.5c24.3-2.7 47.6-7.4 69.4-13.9L448 480h112l-67.4-113.7c54.5-35.4 88.4-84.9 88.4-139.7zm-466.8 14.5c0-73.5 98.9-133 220.8-133s211.9 40.7 211.9 133c0 50.1-26.5 85-70.3 106.4-2.4-1.6-4.7-2.9-6.4-3.7-10.2-5.2-27.8-10.5-27.8-10.5s86.6-6.4 86.6-92.7-90.6-87.9-90.6-87.9h-199V361c-74.1-21.5-125.2-67.1-125.2-119.9zm225.1 38.3v-55.6c57.8 0 87.8-6.8 87.8 27.3 0 36.5-38.2 28.3-87.8 28.3zm-.9 72.5H365c10.8 0 18.9 11.7 24 19.2-16.1 1.9-33 2.8-50.6 2.9v-22.1z"></path></svg> course</strong>: <em>Tools for software development and performance</em>" was written by <a href="https://robin.genuer.fr/">Robin Genuer</a> &amp; <a href="https://borishejblum.science/">Boris Hejblum</a>. It was last built on 2022-06-09.</p>
   </div>
 
   <div class="col-12 col-md-6 mt-3">

diff --git a/_book/take-home-messages.html b/_book/take-home-messages.html
@@ -91,7 +91,7 @@
 <footer class="bg-primary text-light mt-5"><div class="container"><div class="row">
 
   <div class="col-12 col-md-6 mt-3">
-    <p>"<strong>Advanced <svg aria-hidden="true" role="img" viewbox="0 0 581 512" style="height:1em;width:1.13em;vertical-align:-0.125em;margin-left:auto;margin-right:auto;font-size:inherit;fill:currentColor;overflow:visible;position:relative;"><path d="M581 226.6C581 119.1 450.9 32 290.5 32S0 119.1 0 226.6C0 322.4 103.3 402 239.4 418.1V480h99.1v-61.5c24.3-2.7 47.6-7.4 69.4-13.9L448 480h112l-67.4-113.7c54.5-35.4 88.4-84.9 88.4-139.7zm-466.8 14.5c0-73.5 98.9-133 220.8-133s211.9 40.7 211.9 133c0 50.1-26.5 85-70.3 106.4-2.4-1.6-4.7-2.9-6.4-3.7-10.2-5.2-27.8-10.5-27.8-10.5s86.6-6.4 86.6-92.7-90.6-87.9-90.6-87.9h-199V361c-74.1-21.5-125.2-67.1-125.2-119.9zm225.1 38.3v-55.6c57.8 0 87.8-6.8 87.8 27.3 0 36.5-38.2 28.3-87.8 28.3zm-.9 72.5H365c10.8 0 18.9 11.7 24 19.2-16.1 1.9-33 2.8-50.6 2.9v-22.1z"></path></svg> course</strong>: <em>Tools for software development and performance</em>" was written by <a href="https://robin.genuer.fr/">Robin Genuer</a> &amp; <a href="https://borishejblum.science/">Boris Hejblum</a>. It was last built on 2022-06-08.</p>
+    <p>"<strong>Advanced <svg aria-hidden="true" role="img" viewbox="0 0 581 512" style="height:1em;width:1.13em;vertical-align:-0.125em;margin-left:auto;margin-right:auto;font-size:inherit;fill:currentColor;overflow:visible;position:relative;"><path d="M581 226.6C581 119.1 450.9 32 290.5 32S0 119.1 0 226.6C0 322.4 103.3 402 239.4 418.1V480h99.1v-61.5c24.3-2.7 47.6-7.4 69.4-13.9L448 480h112l-67.4-113.7c54.5-35.4 88.4-84.9 88.4-139.7zm-466.8 14.5c0-73.5 98.9-133 220.8-133s211.9 40.7 211.9 133c0 50.1-26.5 85-70.3 106.4-2.4-1.6-4.7-2.9-6.4-3.7-10.2-5.2-27.8-10.5-27.8-10.5s86.6-6.4 86.6-92.7-90.6-87.9-90.6-87.9h-199V361c-74.1-21.5-125.2-67.1-125.2-119.9zm225.1 38.3v-55.6c57.8 0 87.8-6.8 87.8 27.3 0 36.5-38.2 28.3-87.8 28.3zm-.9 72.5H365c10.8 0 18.9 11.7 24 19.2-16.1 1.9-33 2.8-50.6 2.9v-22.1z"></path></svg> course</strong>: <em>Tools for software development and performance</em>" was written by <a href="https://robin.genuer.fr/">Robin Genuer</a> &amp; <a href="https://borishejblum.science/">Boris Hejblum</a>. It was last built on 2022-06-09.</p>
   </div>
 
   <div class="col-12 col-md-6 mt-3">
